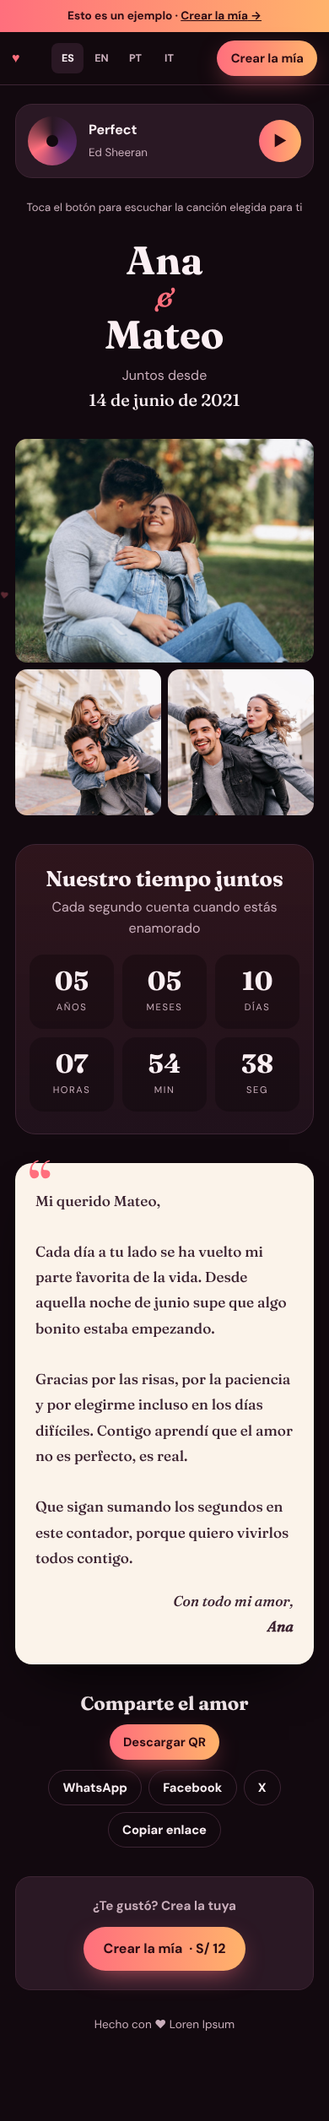
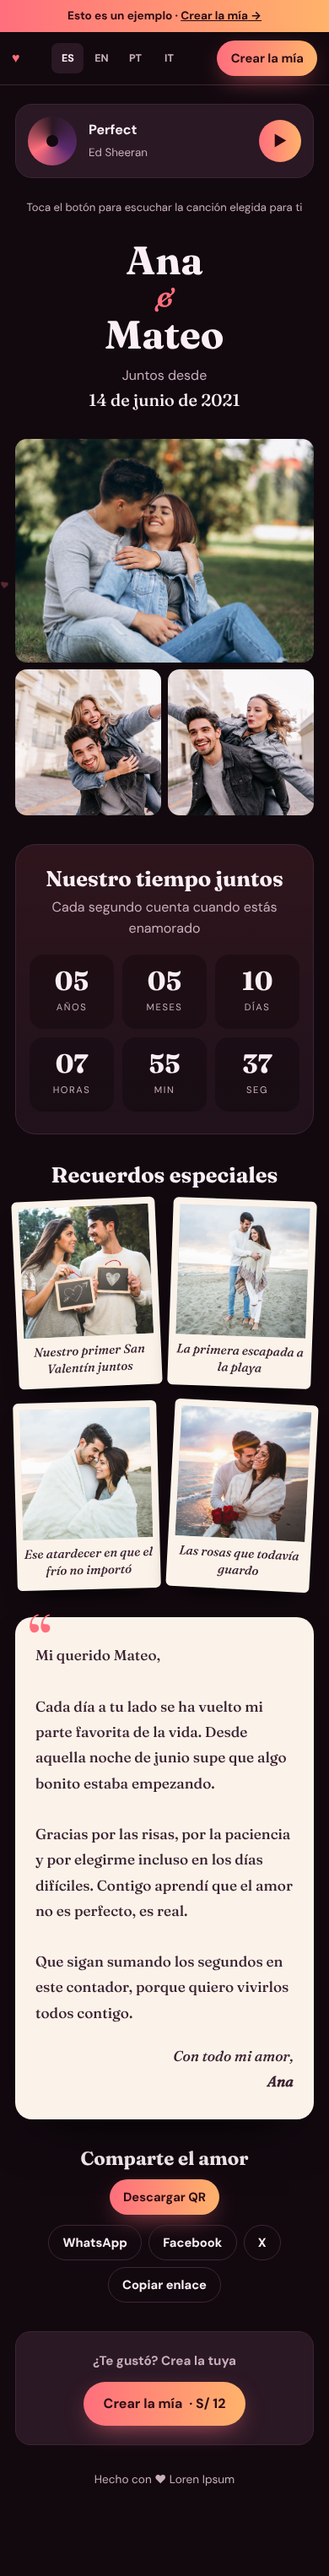
Recuerdos especiales del ejemplo con 4 fotos y frases
Claude-Session: https://claude.ai/code/session_01BDfrGGkL43Xd1SA5QuQ9Ub

diff --git a/index.html b/index.html
@@ -244,7 +244,7 @@ input[type=date]{color-scheme:dark}input[type=time]{color-scheme:dark}
 .mem-add small{color:var(--muted)}
 .mem-empty{font-style:italic;color:var(--muted);text-align:center;margin-top:14px}
 /* Recuerdos especiales (página) */
-.mems{margin-bottom:34px;text-align:center}
+.mems{margin-bottom:34px;padding:0;text-align:center}
 .mems h2{font-size:1.6rem}
 .mem-grid{display:flex;flex-wrap:wrap;justify-content:center;gap:18px 14px;margin-top:14px}
 .mem-grid .polaroid{width:calc(50% - 7px)}
@@ -687,7 +687,14 @@ const DEMO = {
   id: "demo", a: "Ana", b: "Mateo", from: "Ana", date: "2021-06-14", time: "20:00",
   song: { title: "Perfect", artist: "Ed Sheeran", url: "https://youtu.be/2Vv-BfVoq4g" },
   letter: "Mi querido Mateo,\n\nCada día a tu lado se ha vuelto mi parte favorita de la vida. Desde aquella noche de junio supe que algo bonito estaba empezando.\n\nGracias por las risas, por la paciencia y por elegirme incluso en los días difíciles. Contigo aprendí que el amor no es perfecto, es real.\n\nQue sigan sumando los segundos en este contador, porque quiero vivirlos todos contigo.",
-  sign: "Ana", photos: ["img/demo-1.jpg", "img/demo-2.jpg", "img/demo-3.jpg"], paid: true, demo: true, lang: "es"
+  sign: "Ana", photos: ["img/demo-1.jpg", "img/demo-2.jpg", "img/demo-3.jpg"],
+  memories: [
+    { img: "img/recuerdo-1.jpg", text: "Nuestro primer San Valentín juntos" },
+    { img: "img/recuerdo-2.jpg", text: "La primera escapada a la playa" },
+    { img: "img/recuerdo-3.jpg", text: "Ese atardecer en que el frío no importó" },
+    { img: "img/recuerdo-4.jpg", text: "Las rosas que todavía guardo" }
+  ],
+  paid: true, demo: true, lang: "es"
 };
 
 /* ===================================================================
